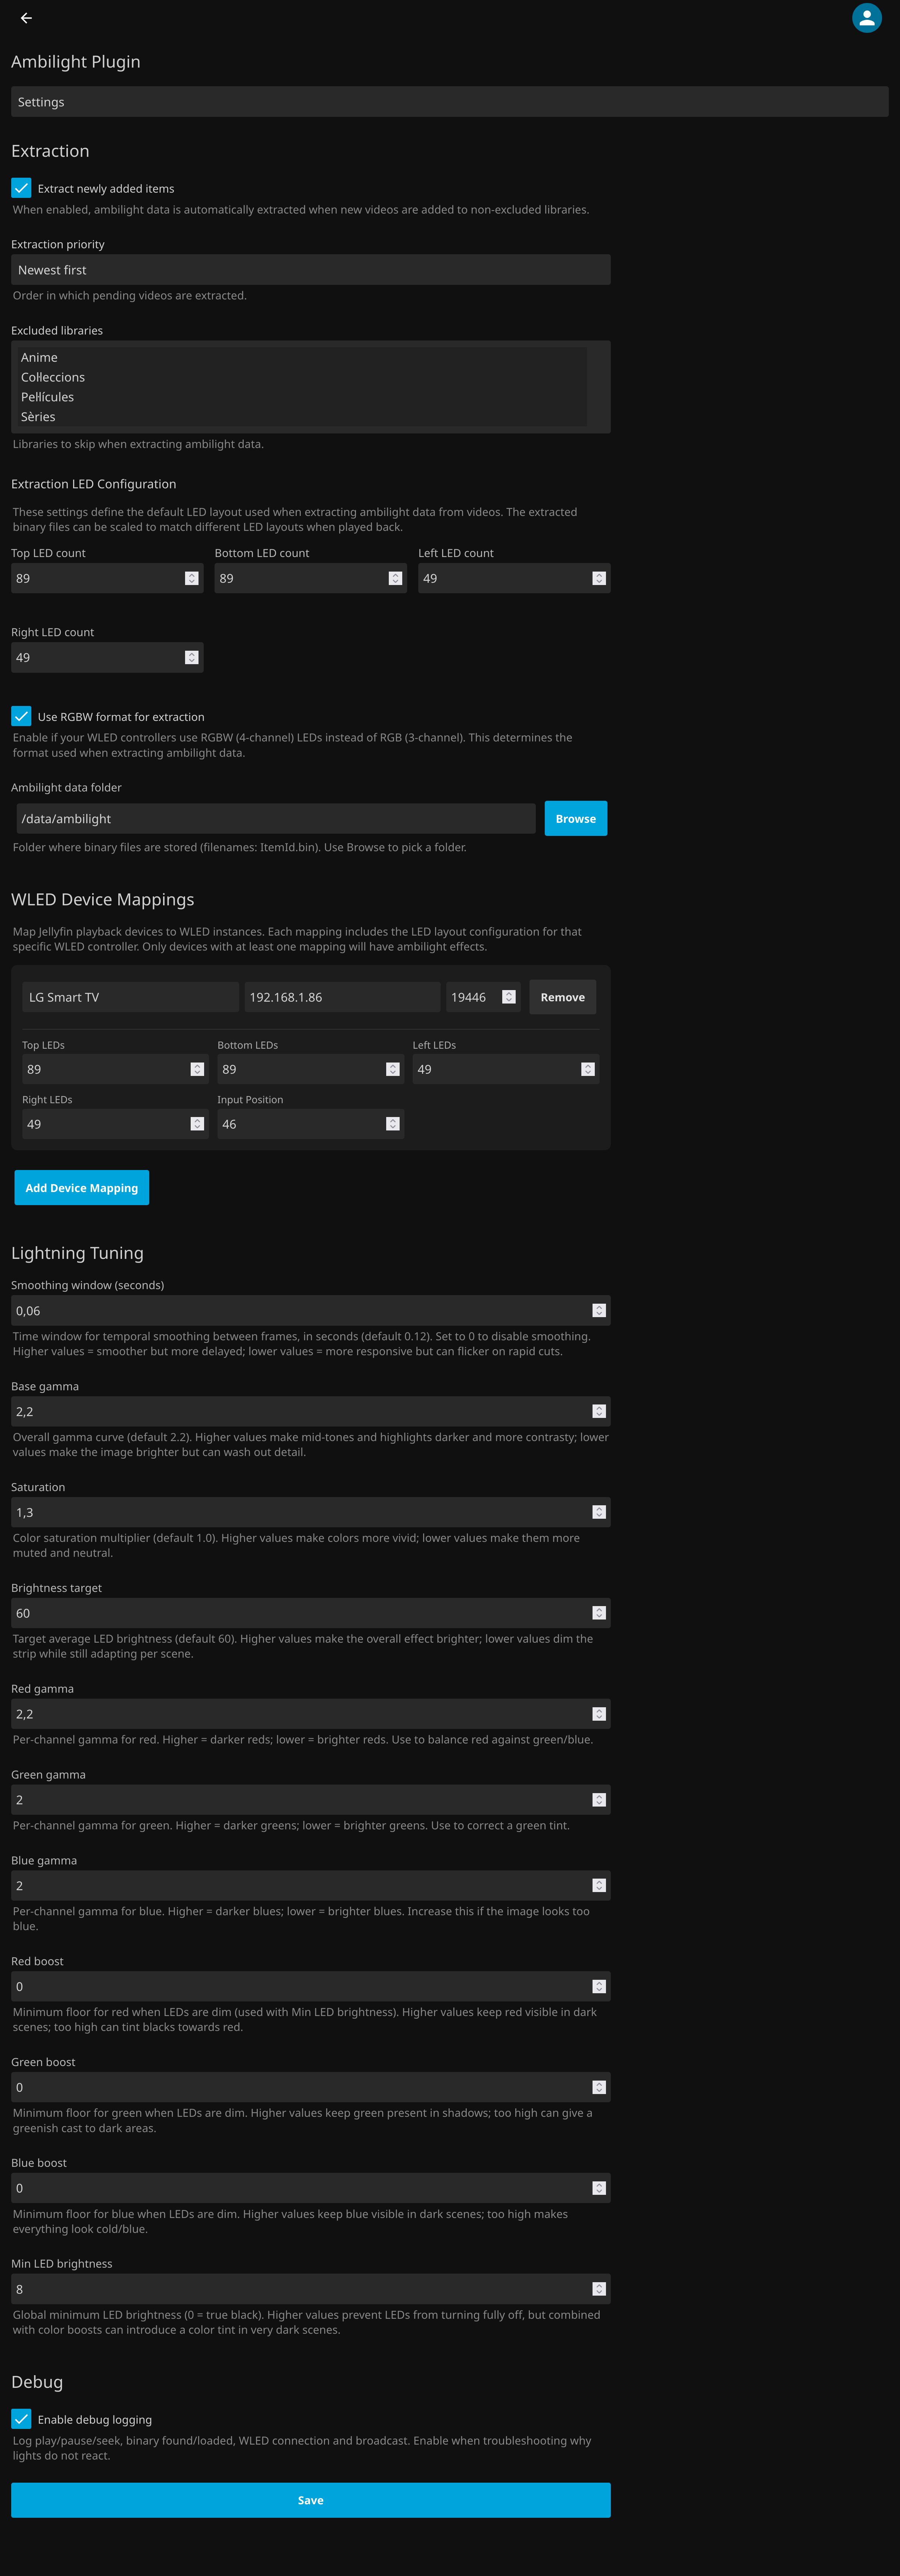
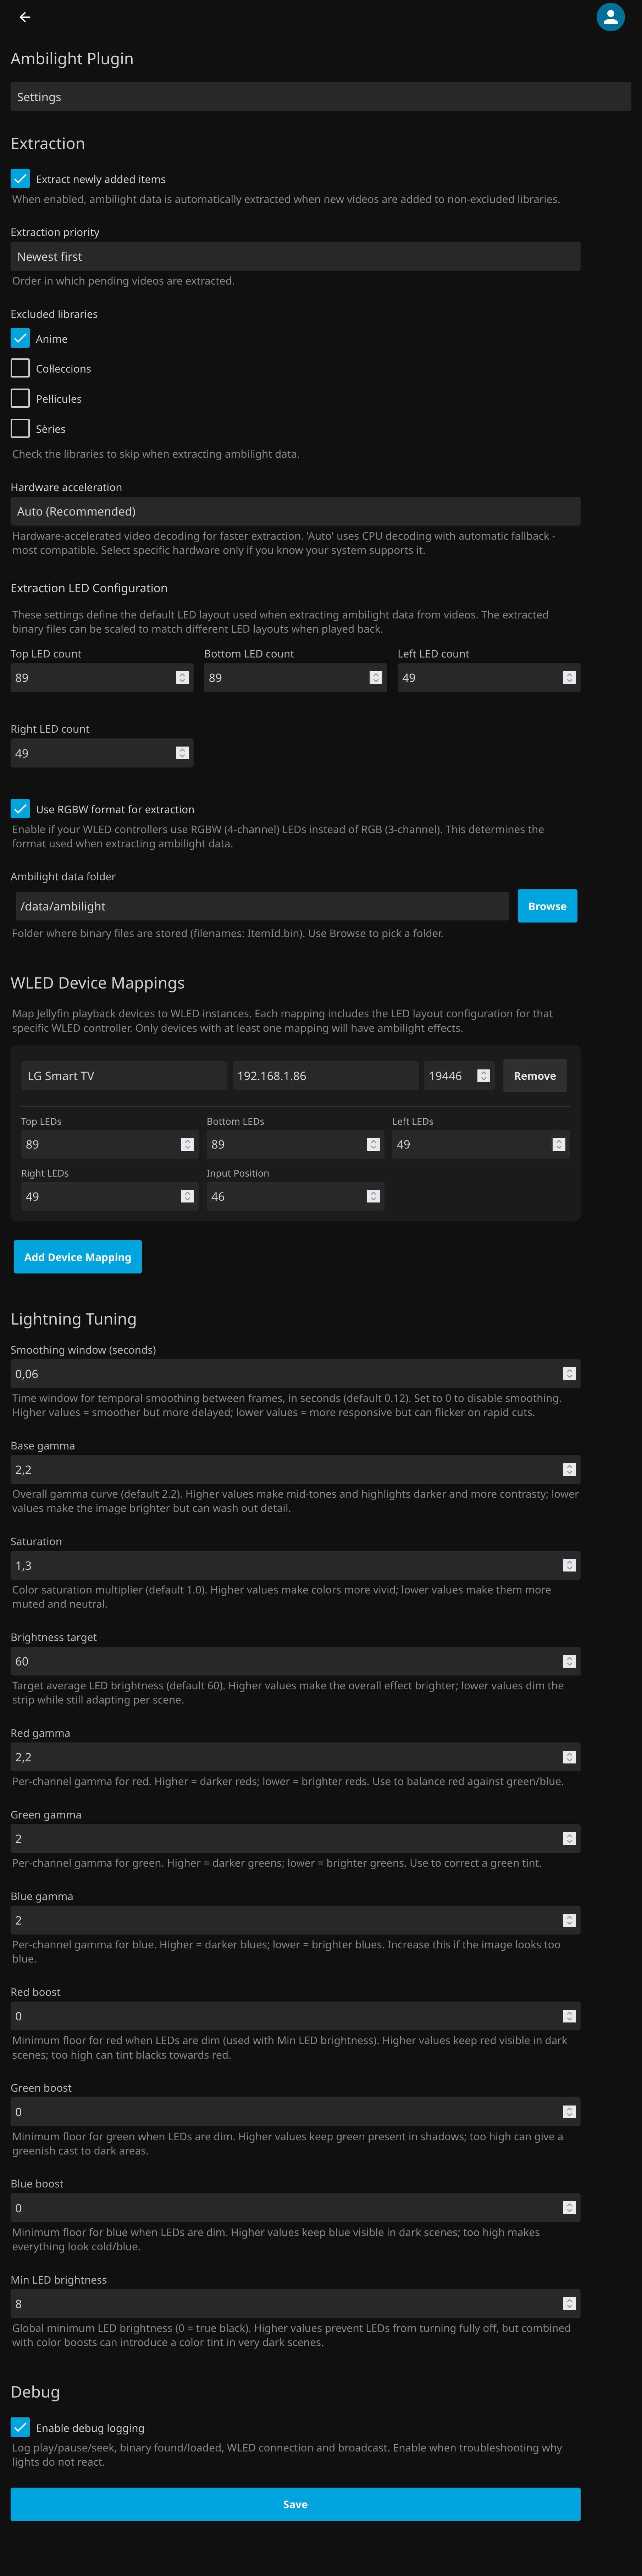
Put some order to readme and installation docs

diff --git a/README.md b/README.md
@@ -25,28 +25,18 @@ Ambilight creates ambient lighting that matches the colors on your screen edges,
 
 ## Installation
 
-### Step 1: Install the Plugin
+### Docker Storage Volume (Do This First For Docker Installs)
 
-1. Download the latest `Jellyfin.Plugin.Ambilight.dll` from the releases
-2. Copy it to your Jellyfin plugins folder:
-   - Default: `/config/plugins/Ambilight/`
-   - Create the folder if it doesn't exist
-3. Restart Jellyfin
+If Jellyfin runs in Docker, set up a persistent volume for ambilight binary data before installing the plugin.
 
-**Important:** Only copy the `.dll` file - no other files are needed.
-
-### Step 2: Configure Docker Volume (Docker Users Only)
-
-If you're running Jellyfin in Docker, you need to add a volume for ambilight data storage.
-
-Add this line to your `docker-compose.yml` under `volumes:`:
+Add this line to your `docker-compose.yml` under `volumes`:
 
 ```yaml
 volumes:
   - /path/on/your/host/ambilight-data:/config/data/ambilight
 ```
 
-Or if using `docker run`:
+Or with `docker run`:
 
 ```bash
 -v /path/on/your/host/ambilight-data:/config/data/ambilight
@@ -63,7 +53,28 @@ services:
       - /mnt/jellyfin/ambilight:/config/data/ambilight  # Add this line
 ```
 
-This folder will store the extracted ambilight data files (`.bin` files) for your videos.
+This folder stores extracted ambilight binary files (`.bin`) and should persist across container restarts.
+
+### Plugin Repository (Recommended)
+
+1. Go to **Jellyfin Dashboard** -> **Administration** -> **Plugins** -> **Repositories**
+2. Click **Add Repository**
+3. Enter:
+   - **Name:** `Ambilight`
+   - **URL:** `https://raw.githubusercontent.com/gabrielprat/jellyfin-ambilight/refs/heads/master/manifest.json`
+4. Save, then open **Catalog**
+5. Search for **Ambilight** and click **Install**
+6. Restart Jellyfin
+
+### Manual Install (Fallback)
+
+1. Download the latest `jellyfin-plugin-ambilight_x.x.x.zip` from [Releases](https://github.com/gabrielprat/jellyfin-ambilight/releases)
+2. Extract the zip
+3. Copy the `Jellyfin.Plugin.Ambilight` folder to your Jellyfin plugins directory:
+   - Linux: `/var/lib/jellyfin/plugins/`
+   - Docker: `/config/plugins/`
+   - Windows: `C:\ProgramData\Jellyfin\Server\plugins\`
+4. Restart Jellyfin
 
 ## Configuration
 
@@ -157,7 +168,6 @@ The plugin includes a built-in extraction manager that handles video processing:
 The plugin looks for:
 - Movies
 - TV show episodes
-- Videos matching your time window settings
 - Items without existing ambilight data
 
 #### Monitoring Extraction

diff --git a/INSTALLATION.md b/INSTALLATION.md
@@ -1,18 +1,8 @@
 # Installation Guide
 
-## Quick Install
+## Docker Data Volume (Do This First For Docker)
 
-1. **Download** the latest `jellyfin-plugin-ambilight_x.x.x.x.zip` from [Releases](https://github.com/gabrielprat/jellyfin-ambilight/releases)
-2. **Extract** the zip file
-3. **Copy** the `Jellyfin.Plugin.Ambilight` folder to your Jellyfin plugins directory:
-   - Linux: `/var/lib/jellyfin/plugins/`
-   - Windows: `C:\ProgramData\Jellyfin\Server\plugins\`
-   - Docker: `/config/plugins/`
-4. **Restart** Jellyfin
-
-## Docker Installation
-
-If running Jellyfin in Docker, you also need to add a volume for ambilight data:
+If running Jellyfin in Docker, add a persistent volume for ambilight data before installing the plugin:
 
 ```yaml
 services:
@@ -28,17 +18,25 @@ Or with docker run:
 docker run -v /path/to/ambilight-data:/config/data/ambilight jellyfin/jellyfin
 ```
 
-## Adding the Plugin Repository (Optional)
+## Preferred: Plugin Repository Install
 
-You can add this repository to Jellyfin for easier updates:
-
-1. Go to **Dashboard** → **Plugins** → **Repositories**
+1. Go to **Jellyfin Dashboard** -> **Administration** -> **Plugins** -> **Repositories**
 2. Click **Add Repository**
 3. Enter:
-   - **Repository Name**: Ambilight Plugin
-   - **Repository URL**: `https://raw.githubusercontent.com/gabrielprat/jellyfin-ambilight/master/manifest.json`
-4. Save and go to **Catalog**
-5. Find **Ambilight** and click **Install**
+   - **Repository Name**: `Ambilight`
+   - **Repository URL**: `https://raw.githubusercontent.com/gabrielprat/jellyfin-ambilight/refs/heads/master/manifest.json`
+4. Save, open **Catalog**, find **Ambilight**, and click **Install**
+5. Restart Jellyfin
+
+## Manual Install (Fallback)
+
+1. Download the latest `jellyfin-plugin-ambilight_x.x.x.zip` from [Releases](https://github.com/gabrielprat/jellyfin-ambilight/releases)
+2. Extract the zip file
+3. Copy the `Jellyfin.Plugin.Ambilight` folder to your Jellyfin plugins directory:
+   - Linux: `/var/lib/jellyfin/plugins/`
+   - Windows: `C:\ProgramData\Jellyfin\Server\plugins\`
+   - Docker: `/config/plugins/`
+4. Restart Jellyfin
 
 ## Verification
 